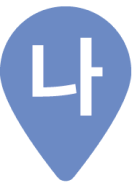
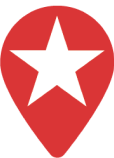
장바구니 css, 유저마커 수정

diff --git a/src/client/css/style.css b/src/client/css/style.css
@@ -24,7 +24,7 @@
 .introduce-content-wrap p { margin-bottom: 10px;}
 
 /* course */
-.course-nav-ul { display: flex; flex-wrap: wrap; padding: 20px 0; margin-bottom: 20px; }
+.course-nav-ul { display: flex; flex-wrap: wrap; padding: 20px 0; margin-bottom: 20px; width: 100%;}
 .course-nav-ul .course { position: relative; width: 31%; text-align: center; border: 2px solid; border-radius: 30px; margin: 1%; padding: 1vh 0; font-weight: 500; border-color: rgb(221, 221, 221); background-color: rgb(238, 238, 238); font-family: "Pretendard-Medium"; }
 .course-nav-ul .course.on { border-color: #EFE3EB; background-color: #EFE3EB; color: #353535; }
 .course-nav-ul .course .mark-wrap { position: absolute;  width: 50px; height: 50px; right: 0; top: -10px; z-index: 15; }

diff --git a/src/client/js/introduce.js b/src/client/js/introduce.js
@@ -40,9 +40,7 @@ const configurationLocationWatch = () => {
         addCourseMarkers();
       }
       addUserMarker();
-      // if (clickCourseId === 0) {        
-      //   panTo(userLatitude, userLongitude);
-      // }
+      
     });
   }
 };
@@ -99,7 +97,7 @@ const addCourseMarkers = (latitude,longitude) => {
     image: image1,
   });
 };
-
+// 클릭시 위치 이동
 function tripLocation(latitude,longitude){
   // console.log(longitude);
   // console.log(latitude);
